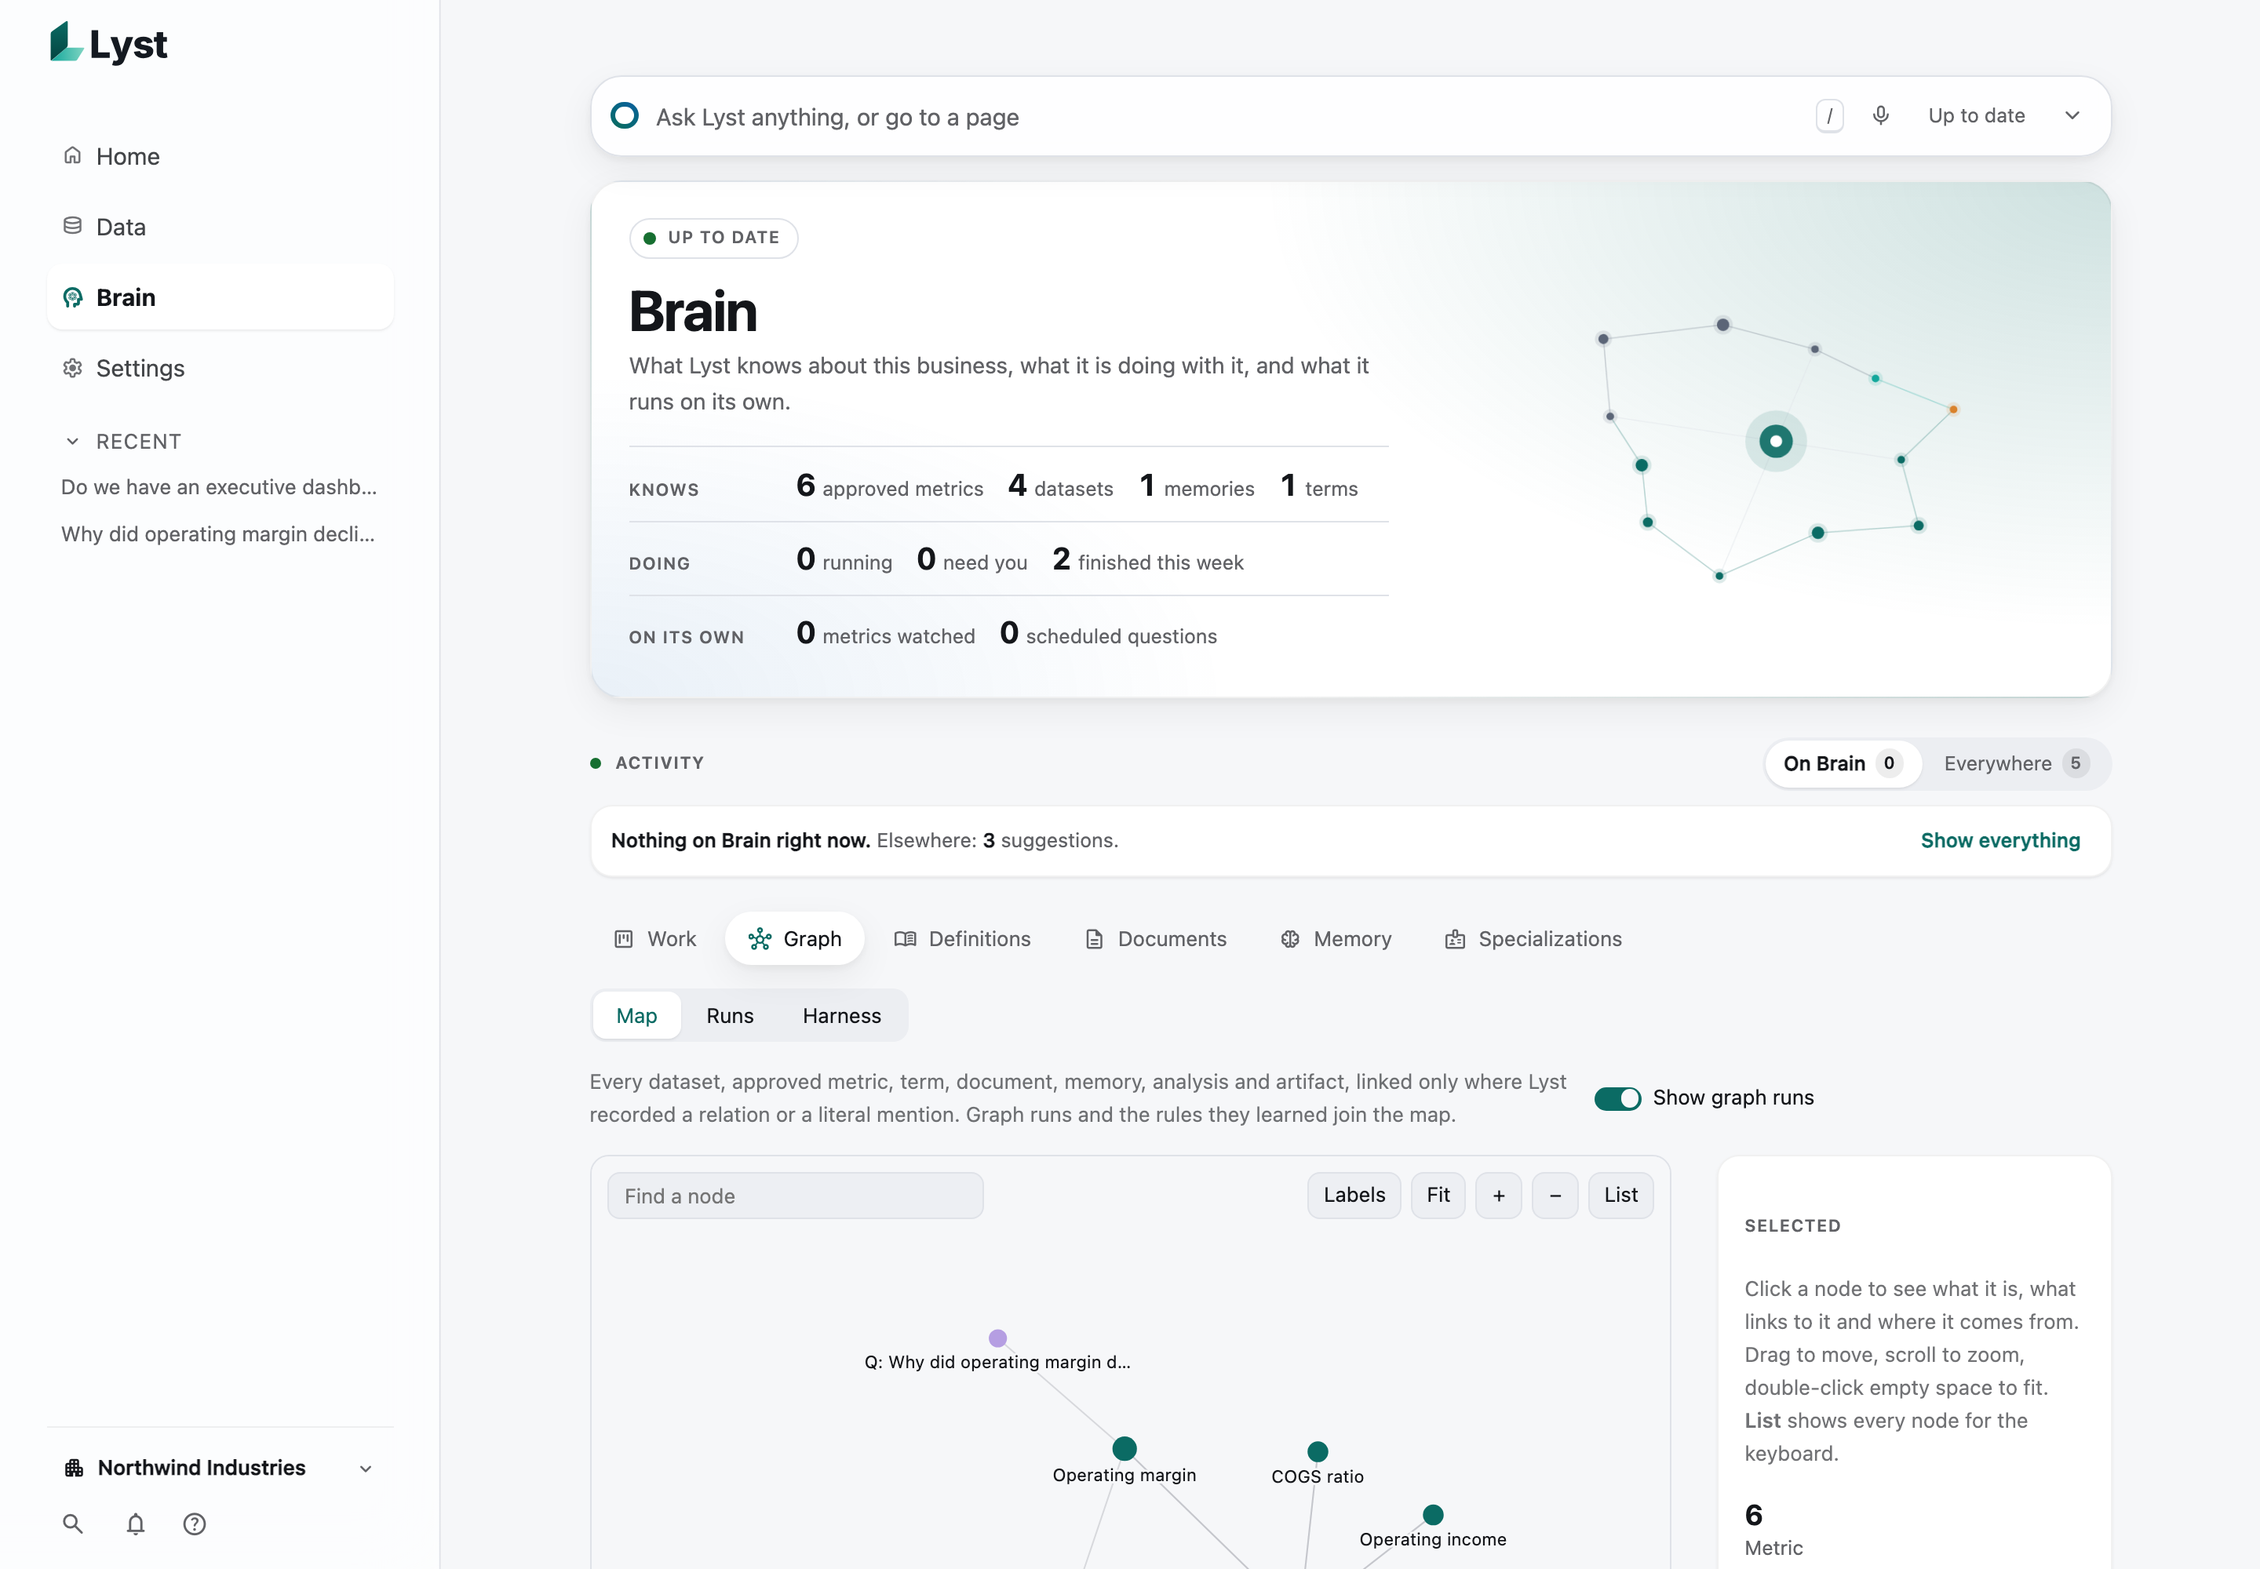
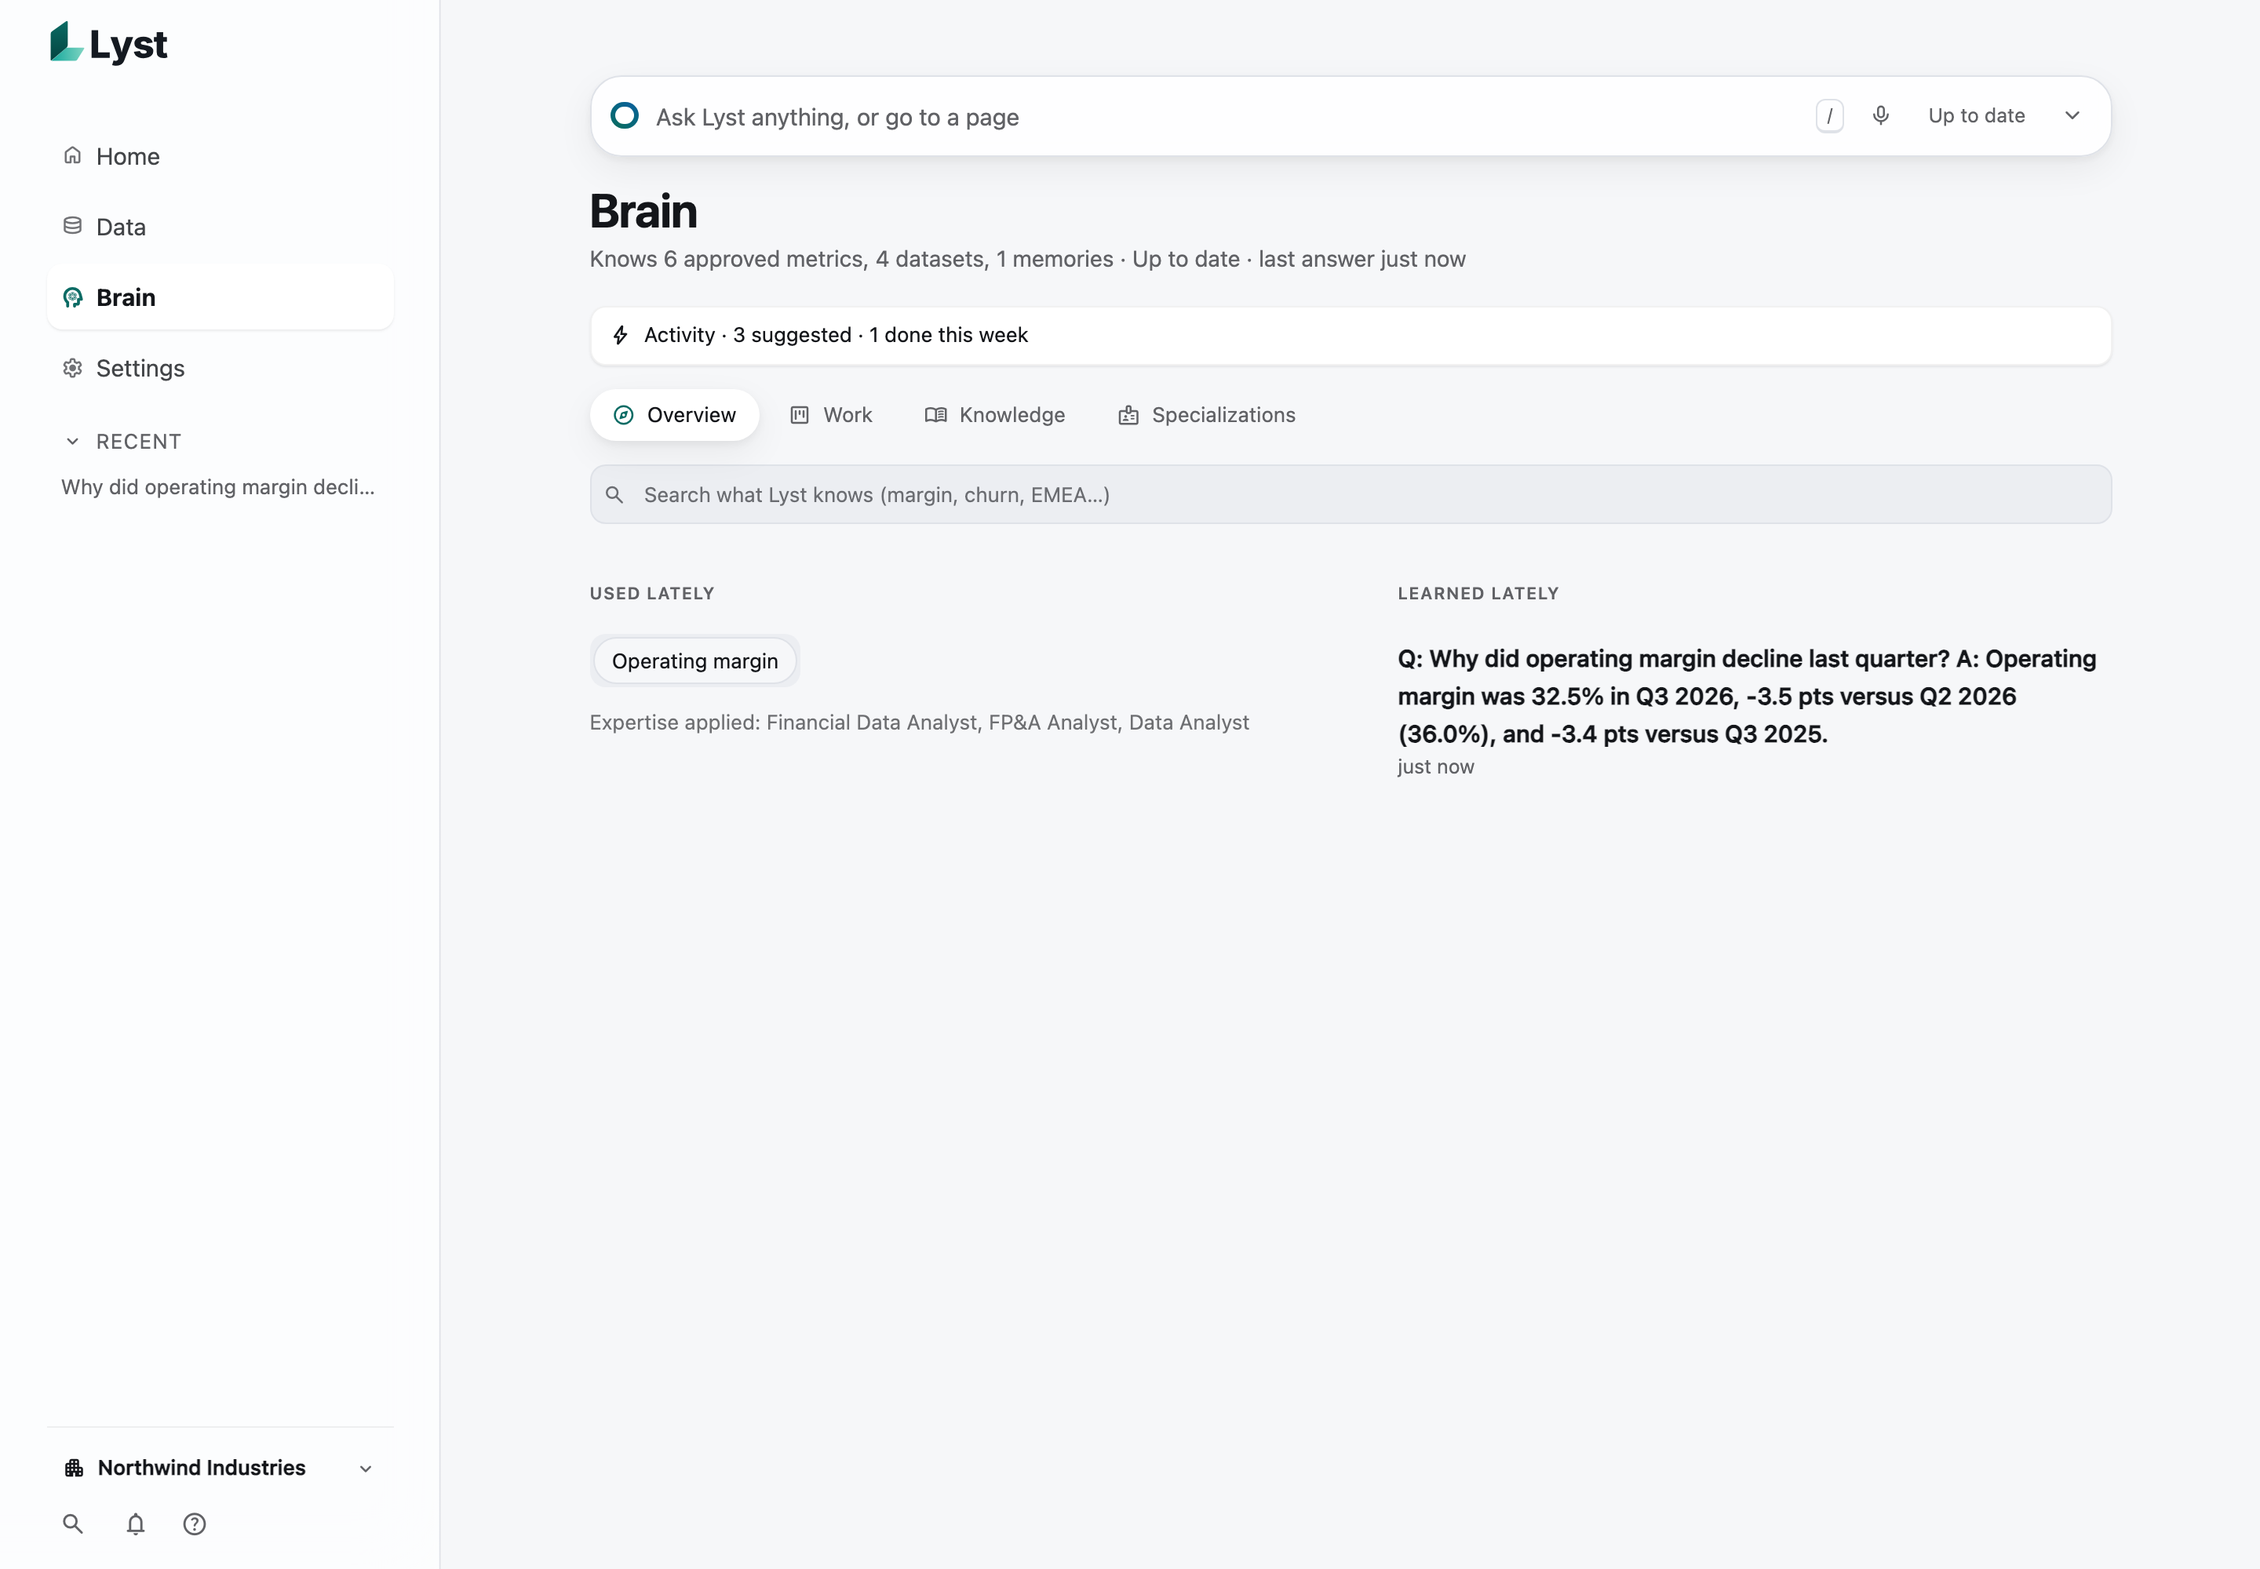
README: the answer leads with the finding and asks Is this right? (#167), Brain Overview with search first and four sections (#169), light and dark screenshots that follow the reader's theme

diff --git a/README.md b/README.md
@@ -1,5 +1,8 @@
 <p align="center">
-  <img src="site/brand/lyst-logo.svg" alt="Lyst" width="160">
+  <picture>
+    <source media="(prefers-color-scheme: dark)" srcset="site/brand/lyst-logo-on-dark.svg">
+    <img src="site/brand/lyst-logo.svg" alt="Lyst" width="160">
+  </picture>
 </p>
 
 <p align="center">
@@ -22,7 +25,12 @@ Python, verifies the result independently, and returns a decision-ready answer w
 assumption behind it. It is judged by completed, verifiable work, not by conversation: every number comes from
 a query, whether or not a model is involved.
 
-![Lyst answering why operating margin declined: a verified answer with evidence, a trend chart, what it means and what to do](docs/images/analyst-light.png)
+<p align="center">
+  <picture>
+    <source media="(prefers-color-scheme: dark)" srcset="docs/images/analyst-dark.png">
+    <img src="docs/images/analyst-light.png" alt="Lyst answering why operating margin declined: the verified finding first, why it matters, the trust line, one chart and what to do, with the details one click away">
+  </picture>
+</p>
 
 **Why Lyst**
 
@@ -102,13 +110,16 @@ three quiet icons for search (Ctrl/⌘+K opens the palette from anywhere), notif
 
 | Area | What you do there |
 |---|---|
-| **Home** | Answer-first: a one-line status ("1 thing needs you · watching 3 metrics · next run in 3 h"), suggested questions, the activity board, then **Latest answers** as cards (the verified answer with a preview; *Why, and what to do* folds open in place) and **Made for you**. Get started and earlier answers fold into one line each |
+| **Home** | Ask in the agent bar and the answer leads: the verified finding, why it matters, the trust line, one chart and what to do, with everything else one click away. Before you ask, Home shows a few suggested questions, one suggested next step, **Latest answers** as cards (*Why, and what to do* folds open in place) and **Made for you**. Get started and earlier answers fold into one line each, and the activity line stays quiet unless something needs you |
 | **Data** | Opens with Lyst's read on the data in one line ("1 of 4 datasets needs attention…", with **Review**), then the activity board, a library rail of datasets, approved metrics and dashboards, and tabs for Datasets (as cards, a map of shared columns, or a list), Sources, Dashboards, Saved analyses and SQL (with a sandboxed **Python** tab), plus **Ask about the data**. **Add data** uploads a file, connects a source, or proposes connections from an API description |
-| **Brain** | What Lyst knows, what it is doing and what it runs on its own, in a band at the top. Its sections: **Work** (needs you, activity with Running, Done, Stopped, Automatic, Decisions and Published, and recurring work: watched metrics, scheduled questions and what Lyst noticed; each task's steps show as a timeline from the engine), **Graph** (the default: a map of everything it knows and how it links, plus graph runs), Definitions, Documents it can cite, Memory (with memories waiting for review), and **Specializations** (the 136 kinds of analyst work with each one's honest maturity) |
+| **Brain** | One calm line on what Lyst knows and is doing, then four sections. **Overview** (the default) searches everything Lyst knows (definitions, datasets, earlier answers, documents), each result with **Open** and **Ask**, and lists the measures and expertise used lately and what it learned lately. **Work** holds needs you, activity (Running, Done, Stopped, Automatic, Decisions, Published) and recurring work. **Knowledge** holds Definitions, Documents, Memory (with memories waiting for review) and the **Map** of how everything links, with graph runs. **Specializations** is the catalog of 136 kinds of analyst work |
 | **Settings** | A native two-pane screen with grouped settings: Models (level and costs), Connections (keys and sources), Workspace (members, autonomy, data policy, webhooks, audit trail), Voice, and Advanced (skills, capabilities, evaluation runs, and how working ahead went) |
 
 <p align="center">
-  <img src="docs/images/home.png" alt="Home: the Lyst agent bar, suggested questions, and the activity board with Suggested, Needs you, In progress and Done" width="80%">
+<picture>
+  <source media="(prefers-color-scheme: dark)" srcset="docs/images/home-dark.png">
+  <img src="docs/images/home.png" alt="Home: the agent bar, one suggested question row, the quiet activity line, a suggested next step, latest answers as cards and Made for you">
+</picture>
 </p>
 
 <p align="center">
@@ -146,9 +157,9 @@ from data to approved metrics.
   </tr>
 </table>
 
-### Brain › Graph and graph runs
+### Brain › Knowledge › Map, and graph runs
 
-The Brain opens on its graph. **Map** shows every dataset, approved metric, business term, document, memory, business
+Brain › Knowledge › **Map** shows every dataset, approved metric, business term, document, memory, business
 entity, analysis and artifact, plus graph runs and the rules they learned. A link is a relation Lyst recorded or a
 literal mention, never an inferred one. Search, zoom, pan, drag, hide a kind from the legend, or use **List** from
 the keyboard; clicking a node shows its backlinks and opens it where it lives.
@@ -190,48 +201,45 @@ answered with the nearest one: Lyst says which metrics exist and how to add one.
   <img src="docs/images/conversation.png" alt="A conversational reply: no dashboard exists yet, an offer to build an Executive overview, marked as a reply from what is in the workspace with nothing computed" width="75%">
 </p>
 
-### Every answer: Summary, Detail, Method, and a Brief
+### Every answer: the finding first, the details one click away
 
-Answers open as a canvas: the answer beside an **evidence rail** showing which checks passed, the data and version
-it came from, the expertise applied and the assumptions made, with **Focus** to give the answer the whole width.
-It opens at **Summary**: the answer, a one-line trust statement ("All 9 checks passed"), the evidence, a chart,
-what it means and what to do. **Detail** adds tables, hypotheses, assumptions and sources. **Method** adds the
-plan, every check and every query. **Brief** opens the two-line version with one chart, what to do and the PDF
-briefing, ready to forward; executive requests lead with it. Limitations stay visible at every depth.
+An answer opens on what matters: the **Verified** badge, the finding, one line on why it matters, the trust line
+("All 10 checks passed: every figure was recomputed independently from approved data"), any caveats, one chart and
+**What to do**. **Why, and the details** opens the evidence, tables, the explanations tested, the assumptions, the
+expertise applied and what the answer made. **Method, checks and queries** opens every source, check, the plan and
+every governed query with its SQL. Caveats stay visible at every layer. **Brief** gives the two-line version with
+one chart and the PDF briefing, ready to forward.
 
-<p align="center">
-  <img src="docs/images/more-menu.png" alt="An answer's More menu: Ask Lyst (by region, by product line, compare to last year, what drove it, make a dashboard) and Do (repeat every Monday, needs approval; save a briefing)" width="70%">
-</p>
+Under the answer sit four menus. **Keep watch** watches the metric or repeats the question. **Download** gives a PDF
+briefing, a deck, an Excel workbook or Markdown, each carrying everything the answer shows, charts included (native,
+editable charts in Excel and slides, vector charts in the PDF, an embedded chart with its data in Markdown).
+**Share** assigns it, asks for a review or publishes it. **More** holds Discuss, What if, Compare options, How this
+ran (each step, query and model call with its timing and tokens) and what Lyst can do with this answer right now:
+break it down, compare it, explain it, make a dashboard, or repeat it (marked as needing approval). One suggested
+next step leads, with the rest folded away, and **How was this figured?** answers where it is from, what could
+change it and whether it can be repeated, from the engine's own records.
 
-**More**, beside Brief and Focus, lists what Lyst can do with this answer right now: break it down, compare it,
-explain it, make a dashboard, repeat it (marked as needing approval) or save a briefing. Under each answer you can
-act on it: **Watch this metric** sets up a monitor, **Repeat it** reruns the saved analysis on a schedule,
-**Download** gives a PDF briefing, a deck, an Excel workbook or Markdown, each carrying everything the answer
-shows in the same order, charts included (native, editable charts in Excel and slides, vector charts in the PDF,
-an embedded chart with its data in Markdown), **Share** assigns it to a colleague or asks for a review,
-**Discuss** opens its thread, and **How this ran** shows each step, query and model call with its timing and
-tokens. Four questions sit under every answer: **How was this figured? · Where is it from? · What could change it?
-· Can it be repeated?** Each opens the engine's own explanation from its records, and the last reruns the recorded
-queries under your current permissions. Below them, **Next steps** offers up to three follow-ups grounded in what
-the answer found, each with Run now (or Watch it), Later and Why.
+**Is this right?** Mark the answer **Right**, **Partly** or **Wrong**, add what it should have said if you like, and
+**Undo** any time. A wrong answer stops being reused, recalled or cited; a right one becomes validated memory.
 
 <p align="center">
-  <img src="docs/images/next-steps.png" alt="Under an answer: the act bar, the four questions about the answer, What if and Compare options, and three Next steps with Run now, Later and Why" width="80%">
-</p>
-
-<p align="center">
-  <img src="docs/images/brief.png" alt="The Brief: the answer, the trust line, one chart, what to do and the PDF briefing" width="49%">
-  <img src="docs/images/analyst-dark.png" alt="The same answer in the dark theme, at the Summary depth" width="49%">
+  <img src="docs/images/verdict.png" alt="Under an answer: Keep watch, Download, Share and More, and Is this right? with Right, Partly (selected), Wrong and Undo" width="85%">
 </p>
 
 <table>
   <tr>
-    <td width="50%"><img src="docs/images/work.png" alt="Brain, Work: needs you, activity filters (Running, Done, Stopped, Automatic, Decisions, Published) and recurring"><br><b>Brain › Work</b>: needs you, activity and recurring runs</td>
-    <td width="50%"><img src="docs/images/data.png" alt="Data: datasets with descriptions, rows, freshness and classification"><br><b>Data</b>: datasets, dashboards, saved analyses and SQL</td>
+    <td width="50%"><picture>
+  <source media="(prefers-color-scheme: dark)" srcset="docs/images/brain-dark.png">
+  <img src="docs/images/brain.png" alt="Brain: one line on what Lyst knows and is doing, the four sections, search, Used lately and Learned lately">
+</picture><br><b>Brain › Overview</b>: search first, then what was used and learned lately</td>
+    <td width="50%"><picture>
+  <source media="(prefers-color-scheme: dark)" srcset="docs/images/data-dark.png">
+  <img src="docs/images/data.png" alt="Data: Lyst's one-line read on the data with Review, the library rail and dataset cards">
+</picture><br><b>Data</b>: Lyst's read on the data first</td>
   </tr>
   <tr>
-    <td><img src="docs/images/brain.png" alt="Brain: what Lyst knows, is doing and runs on its own, above the sections and the knowledge graph"><br><b>Brain</b>: what it knows, is doing and runs on its own</td>
-    <td><img src="docs/images/saved-analyses.png" alt="Data, Saved analyses: a verified analysis ready to rerun"><br><b>Saved analyses</b>: verified work Lyst reruns for any period</td>
+    <td><img src="docs/images/brain-search.png" alt="Brain search for margin: COGS ratio, Operating margin, a saved analysis and an earlier answer, each with Open and Ask"><br><b>Search what Lyst knows</b>: open it, or ask about it</td>
+    <td><img src="docs/images/work.png" alt="Brain, Work: needs you, activity filters (Running, Done, Stopped, Automatic, Decisions, Published) and recurring"><br><b>Brain › Work</b>: needs you, activity and recurring runs</td>
   </tr>
 </table>
 
@@ -431,7 +439,7 @@ where they point, with Mark all read and "What to tell me about".
   keeps failing verification is held back too. One learning report counts, from stored records only, verdicts and
   the judged-correct rate, reuse, held-back analyses, harness rules that worked or did not, and what memory can
   recall. The CI gate now includes a learning category that proves reuse, dispute and withdrawal work, so breaking
-  the loop fails the build. Verdicts are not in the interface yet; the API is the way in
+  the loop fails the build. Verdicts are given under each answer (**Is this right?**) or through the API
   ([docs/LEARNING.md](docs/LEARNING.md)).
 * **Speaks your fiscal calendar.** The fiscal year start in the business profile drives "last quarter", "FY2026",
   year to date and their comparisons, and quarterly and yearly charts, trends, dashboards, monitors and forecasts
